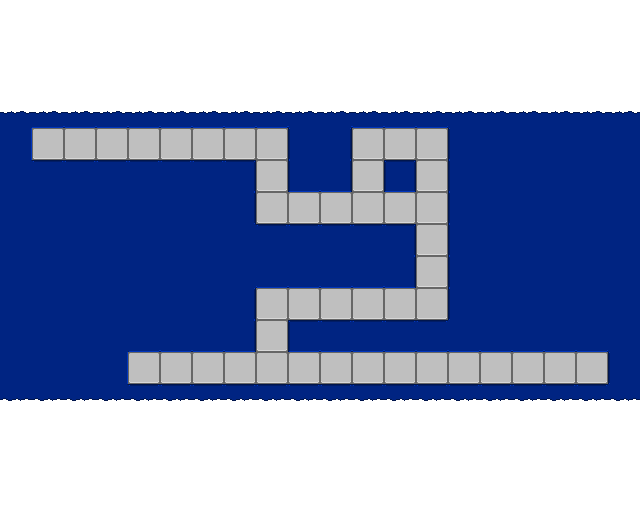
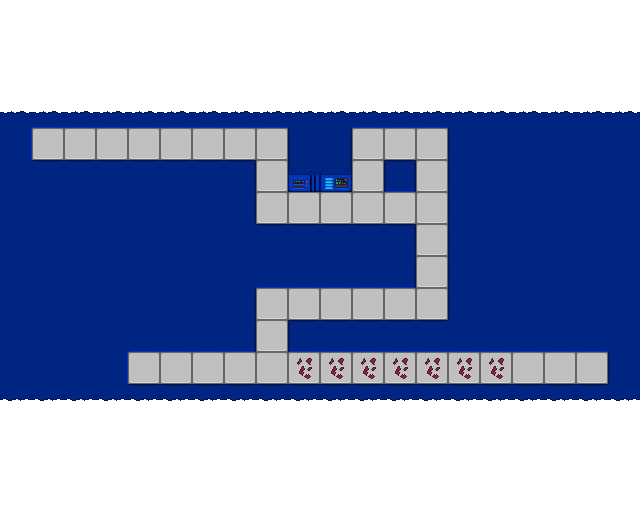
Add basic spritesheet functionality for special tiles

diff --git a/main.js b/main.js
@@ -41,6 +41,7 @@ const IMAGE_FILE_NAMES = {
     alienLeft: 'img/alien-left.png',
     alienRight: 'img/alien-right.png',
     spaceBackground: 'img/Space_Background_3.png',
+    spriteSheet: 'img/spritesheet.png',
 };
 
 const DIRECTIONS = [
@@ -196,6 +197,22 @@ function imageAt(image, x, y) {
     );
 }
 
+function spriteAt(spriteIndex, i, j) {
+    const spriteI = spriteIndex % 10;
+    const spriteJ = Math.floor(spriteIndex / 10);
+    canvas.drawFromSheet(
+        IMAGES.spriteSheet,
+        sx=SHEET_SCALE * spriteI,
+        sy=SHEET_SCALE * spriteJ,
+        sw=SHEET_SCALE,
+        sh=SHEET_SCALE,
+        dx=GRID_SCALE * i,
+        dy=GRID_SCALE * j,
+        dw=GRID_SCALE,
+        dh=GRID_SCALE,
+    );
+}
+
 const SHEET_SCALE = 32;
 
 function update(elapsedTime) {
@@ -219,11 +236,9 @@ function draw(elapsedTime) {
     for (let i = 0; i < level.grid.length; i++) {
         for (let j = 0; j < level.grid[i].length; j++) {
             if (level.grid[i][j] == BLOCK.DESTRUCTABOX) {
-                canvas.color('purple');
-                rectAt(i, j);
+                spriteAt(0, i, j);
             } else if (level.grid[i][j] == BLOCK.COLLECTABLE) {
-                canvas.color('orange');
-                rectAt(i,j);
+                spriteAt(1, i, j);
             }
         }
     }

diff --git a/levelReader.js b/levelReader.js
@@ -4,7 +4,7 @@ const LEVEL_STRING = `1111111111111111
 1111011111111111
 1111011111111111
 1111011111111111
-1111011111101111
+1111011111131111
 1111011111101111
 1111011111101111
 1111011111101111
